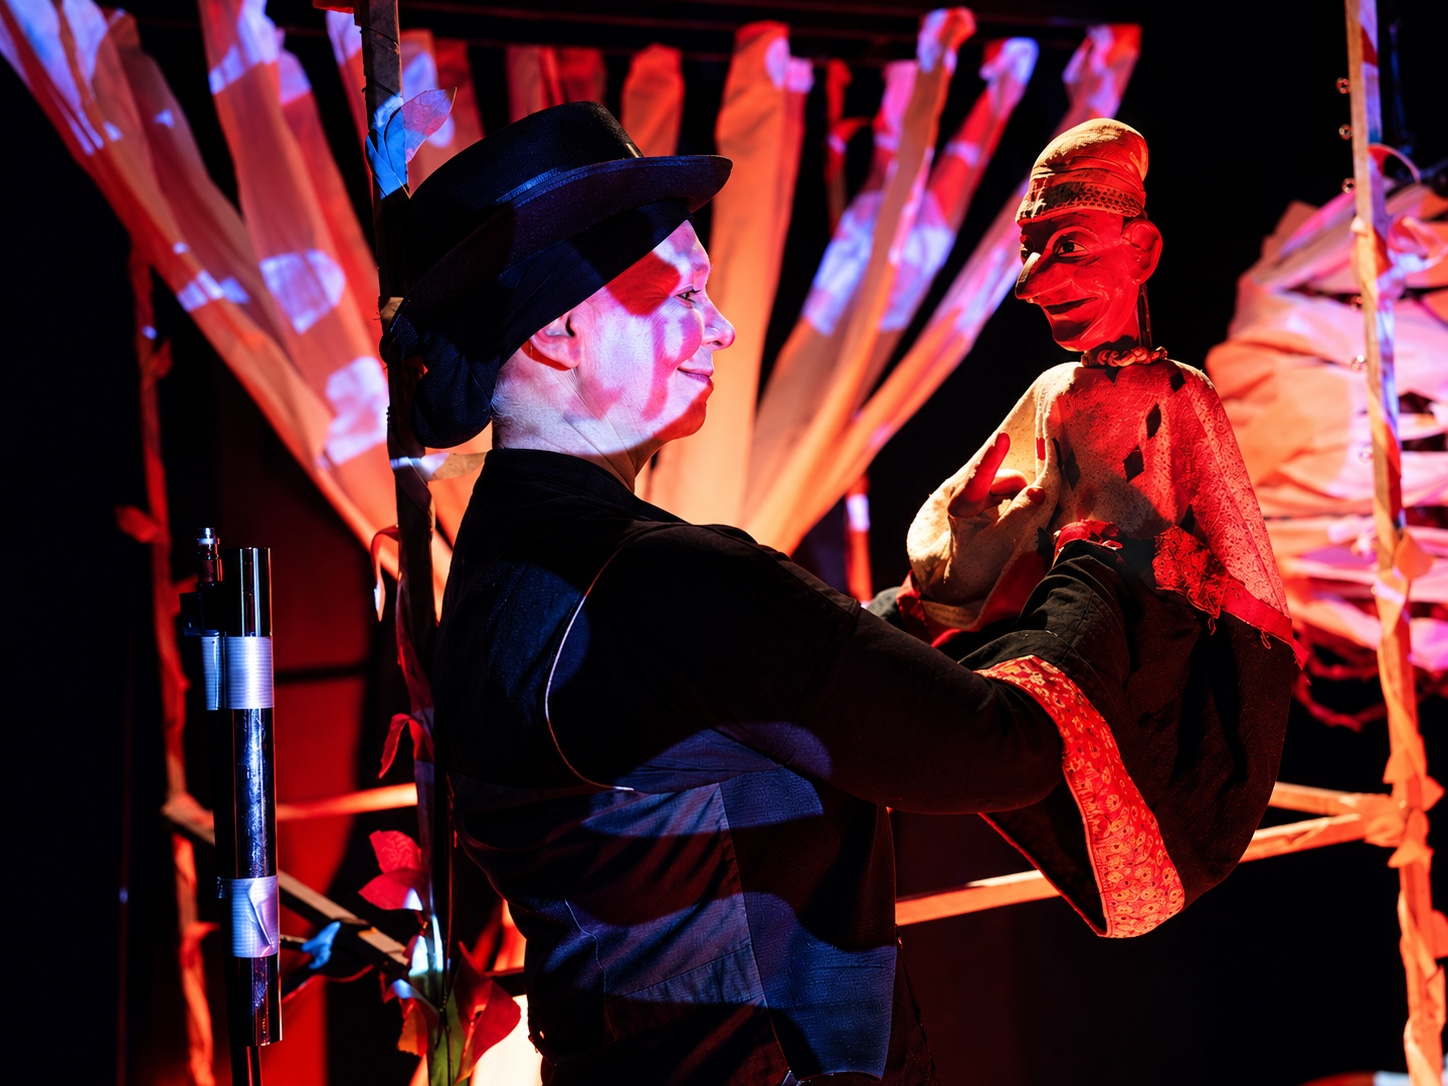
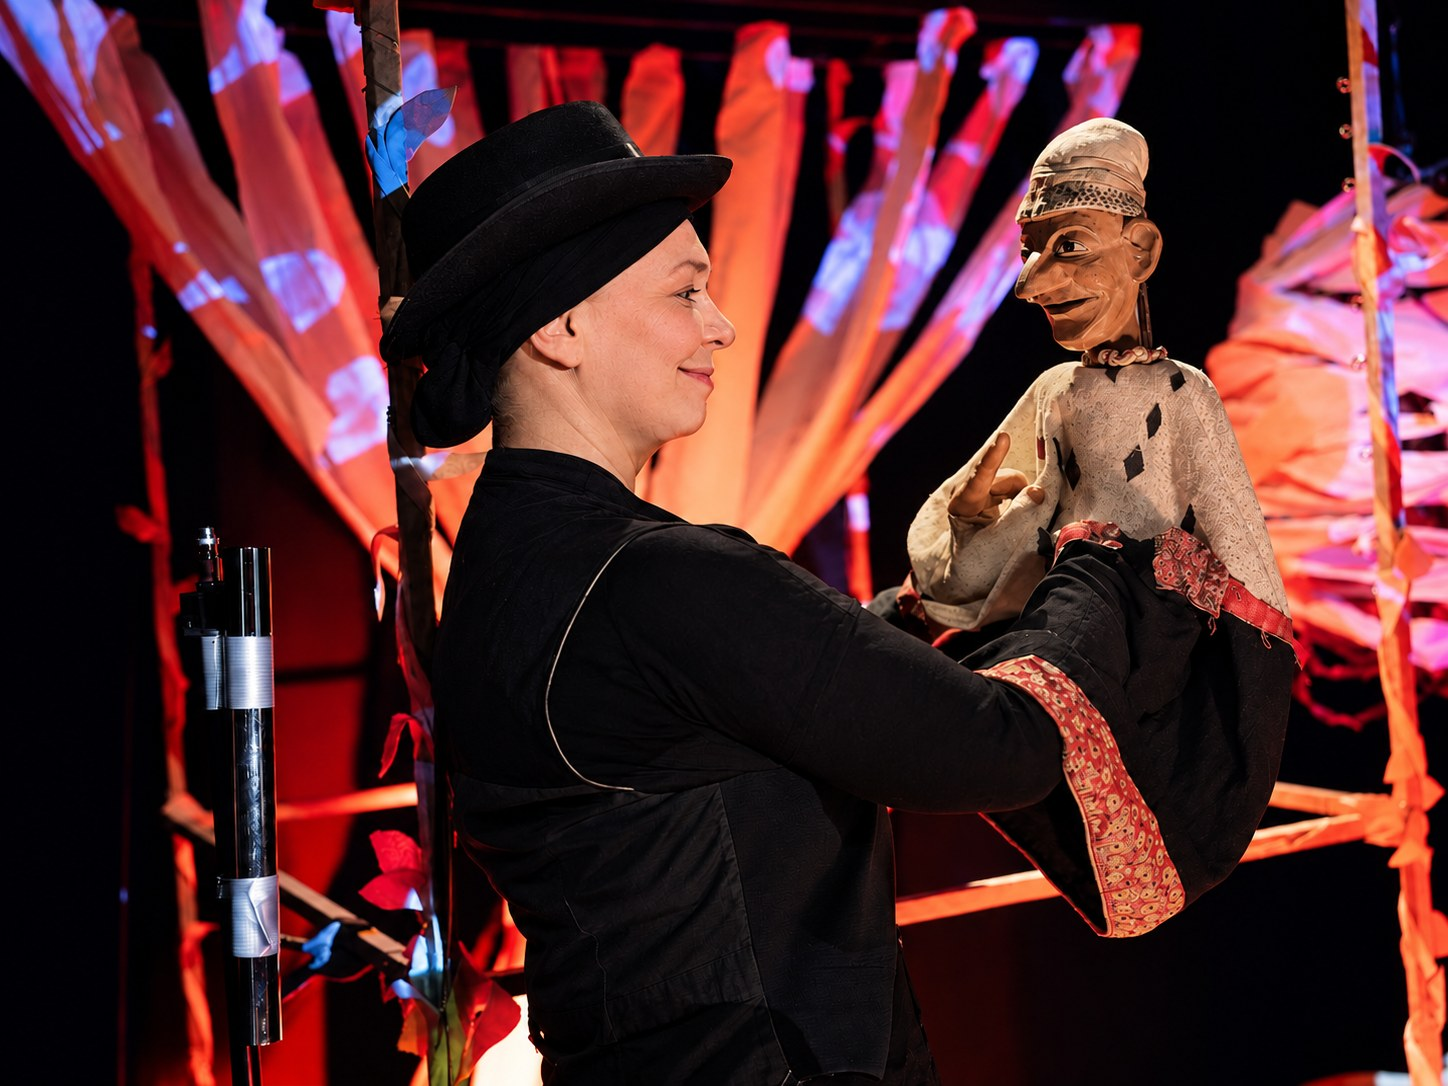
Fünf neue Fotos eingebaut
- Kasperl (zeigt an die Stirn) bei „… der wackelt seit 300 Jahren!“:
  Das neue quadratische Foto füllt die Karte, der beige Rand entfällt.
- Der Alte, Putzfee, Erzählerin mit Koffer und die Waldszenen-Aufnahme
  durch die neuen Fassungen ersetzt.
- Als JPEG in Originalauflösung gespeichert (Qualität 88) statt als PNG;
  die fünf Dateien belegen zusammen 1,6 statt 14 MB.
- Versionskennung der geänderten Bilder auf v=20260915c erhöht, damit
  Besucher mit altem Zwischenspeicher die neuen Fotos sehen.

Claude-Session: https://claude.ai/code/session_01AKTCfgSTtdpVdF2CFwfwEp

diff --git a/index.html b/index.html
@@ -123,7 +123,7 @@
     </article>
 
     <article class="play" id="kasperl">
-      <img class="contain" src="assets/kasperl.jpg?v=20260915b" width="389" height="835" loading="lazy" alt="Der farbige Kasperl vor der Waldszenen-Kulisse">
+      <img src="assets/kasperl.jpg?v=20260915c" width="1254" height="1254" loading="lazy" alt="Der Kasperl zeigt mit dem Finger an die Stirn">
       <div class="play-body">
         <div class="meta"><span>Kasperlkomödie ab 3 Jahren</span></div>
         <h3>… der wackelt seit 300 Jahren!</h3>
@@ -238,7 +238,7 @@
   </article>
   <article class="project reverse" id="waldszenen">
     <div class="project-media">
-      <img src="assets/waldszenen-1.jpg?v=20260915b" width="1448" height="1086" loading="lazy" alt="Puppenspielerin und Kasper vor der farbigen Waldszenen-Kulisse">
+      <img src="assets/waldszenen-1.jpg?v=20260915c" width="1448" height="1086" loading="lazy" alt="Puppenspielerin und Kasper vor der farbigen Waldszenen-Kulisse">
       <div class="project-thumbs">
         <img src="assets/waldszenen-2.jpg?v=20260915b" width="1280" height="854" loading="lazy" alt="Kasper zwischen weißen Stoffbahnen und Lichtkugeln">
         <img src="assets/waldszenen-klavier.jpg?v=20260915b" width="1200" height="1600" loading="lazy" alt="Josefine Mücksch am Flügel">
@@ -337,14 +337,14 @@
   <div class="gallery">
     <figure><img src="assets/hexe-und-kasperl.jpg?v=20260915b" width="1400" height="1400" loading="lazy" alt="Hexe Irma und Kasperl in der Guckkastenbühne"><figcaption>Kasperl &amp; Hexe Irma</figcaption></figure>
     <figure><img src="assets/der-stern.jpg" width="853" height="853" loading="lazy" alt="Der große gelbe Stern"><figcaption>Der Stern</figcaption></figure>
-    <figure><img src="assets/der-alte.jpg?v=20260915b" width="1400" height="1400" loading="lazy" alt="Die Puppe des Alten in einem hellen Gewand"><figcaption>Der Alte</figcaption></figure>
+    <figure><img src="assets/der-alte.jpg?v=20260915c" width="1254" height="1254" loading="lazy" alt="Die Puppe des Alten in einem hellen Gewand"><figcaption>Der Alte</figcaption></figure>
     <figure><img src="assets/schloss.jpg?v=20260915b" width="1200" height="1336" loading="lazy" alt="Gemaltes Schloss als Kulisse"><figcaption>Kulisse</figcaption></figure>
     <figure><img src="assets/dummling.jpg" width="1200" height="1200" loading="lazy" alt="Zwei Puppen in glitzernder Kulisse vor einem roten Thron"><figcaption>Drei Federn</figcaption></figure>
     <figure><img src="assets/waldszenen-3.jpg?v=20260915b" width="1280" height="854" loading="lazy" alt="Kasper zwischen weißen und roten Stoffbahnen"><figcaption>Waldszenen</figcaption></figure>
     <figure><img src="assets/prinz-und-prinzessin.jpg" width="768" height="768" loading="lazy" alt="Die Puppen Prinz und Prinzessin"><figcaption>Prinzessin in der Suppe</figcaption></figure>
     <figure><img src="assets/waldszenen-2.jpg?v=20260915b" width="1280" height="854" loading="lazy" alt="Kasper zwischen weißen Stoffbahnen und Lichtkugeln"><figcaption>Waldszenen</figcaption></figure>
-    <figure><img src="assets/koffer-1.jpg?v=20260915b" width="1122" height="1402" loading="lazy" alt="Spielerin mit geöffneten Augen und ausgebreiteten Armen hinter einem großen Koffer auf der Bühne"><figcaption>Auf der Bühne</figcaption></figure>
-    <figure><img src="assets/putzfee.jpg?v=20260915b" width="1448" height="1086" loading="lazy" alt="Die Putzfee mit weißen Locken und goldenem Umhang"><figcaption>Der Stern</figcaption></figure>
+    <figure><img src="assets/koffer-1.jpg?v=20260915c" width="1122" height="1402" loading="lazy" alt="Spielerin mit geöffneten Augen und ausgebreiteten Armen hinter einem großen Koffer auf der Bühne"><figcaption>Auf der Bühne</figcaption></figure>
+    <figure><img src="assets/putzfee.jpg?v=20260915c" width="1448" height="1086" loading="lazy" alt="Die Putzfee mit weißen Locken und goldenem Umhang"><figcaption>Der Stern</figcaption></figure>
     <figure><img src="assets/puppe-bunt.jpg" width="900" height="1200" loading="lazy" alt="Puppe mit buntem Lockenhaar und Spitzenkragen"><figcaption>Aus der Puppenwerkstatt</figcaption></figure>
   </div>
   <div class="posters">
